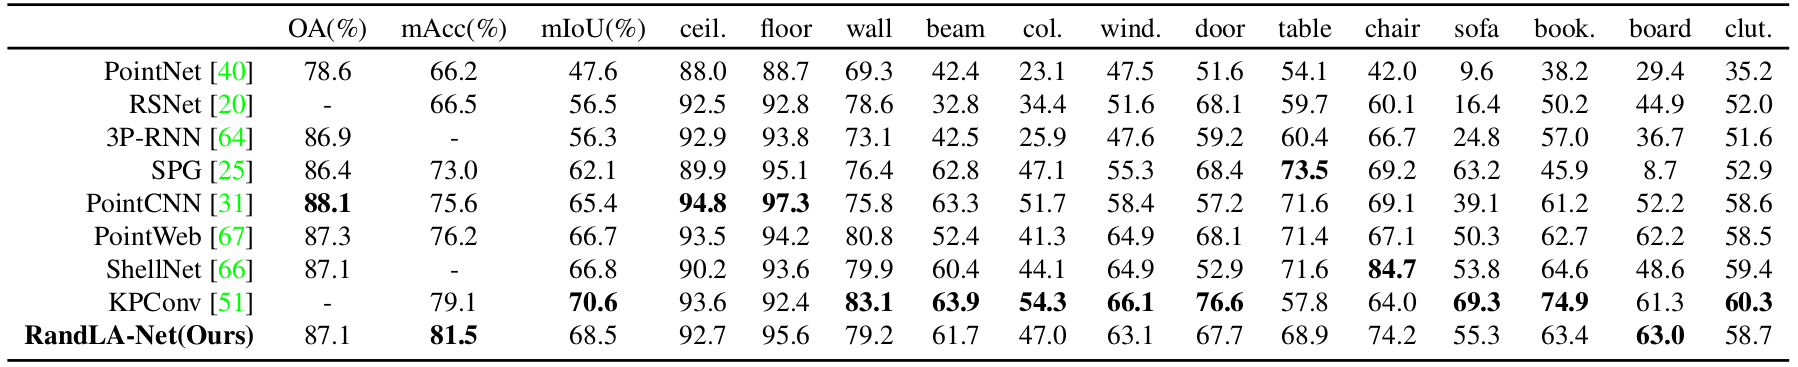
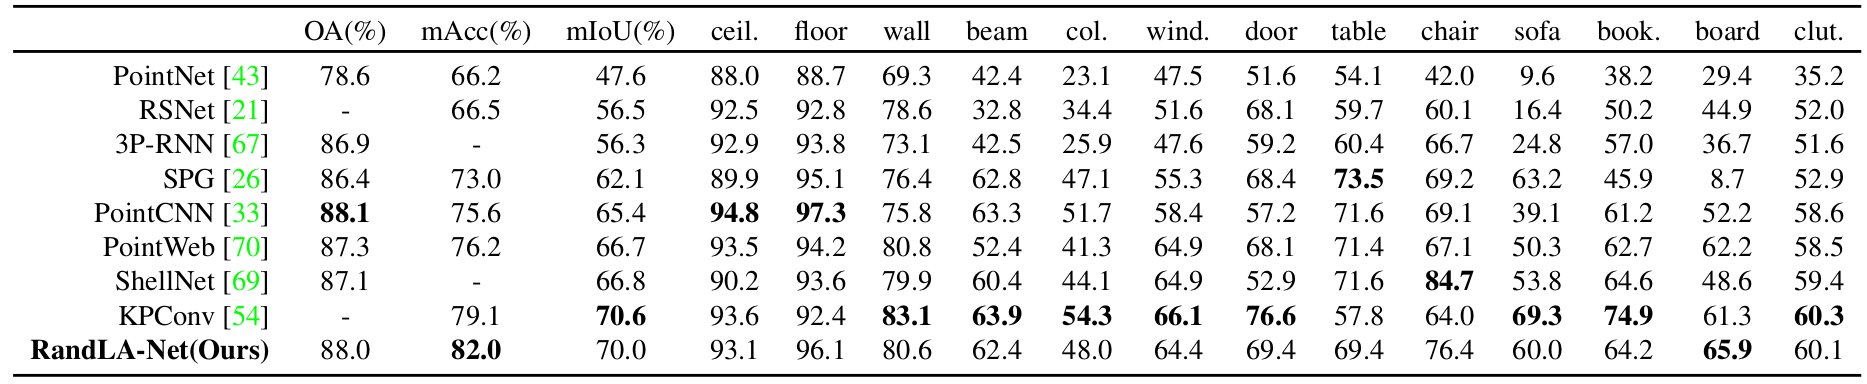
Update

Changed region(s): [[0.0, 0.0, 0.9967, 0.9891]]

diff --git a/main_SemanticKITTI.py b/main_SemanticKITTI.py
@@ -38,7 +38,7 @@ class SemanticKITTI:
         self.label_to_idx = {l: i for i, l in enumerate(self.label_values)}
         self.ignored_labels = np.sort([0])
 
-        self.val_split = 'semantickitti'
+        self.val_split = 'val'
 
         self.seq_list = np.sort(os.listdir(self.dataset_path))
         self.test_scan_number = str(test_id)
@@ -193,6 +193,7 @@ if __name__ == '__main__':
     parser.add_argument('--gpu', type=int, default=0, help='the number of GPUs to use [default: 0]')
     parser.add_argument('--mode', type=str, default='train', help='options: train, test, vis')
     parser.add_argument('--test_area', type=str, default='14', help='options: 11,12,13,14,15,16,17,18,19,20,21')
+    parser.add_argument('--mode_path', type=str, default='None', help='pretrained model path')
     FLAGS = parser.parse_args()
 
     os.environ["CUDA_DEVICE_ORDER"] = "PCI_BUS_ID"
@@ -210,13 +211,16 @@ if __name__ == '__main__':
     elif Mode == 'test':
         cfg.saving = False
         model = Network(dataset, cfg)
-        chosen_snapshot = -1
-        logs = np.sort([os.path.join('results', f) for f in os.listdir('results') if f.startswith('Log')])
-        chosen_folder = logs[-1]
-        snap_path = join(chosen_folder, 'snapshots')
-        snap_steps = [int(f[:-5].split('-')[-1]) for f in os.listdir(snap_path) if f[-5:] == '.meta']
-        chosen_step = np.sort(snap_steps)[-1]
-        chosen_snap = os.path.join(snap_path, 'snap-{:d}'.format(chosen_step))
+        if FLAGS.mode_path is not 'None':
+            chosen_snap = FLAGS.mode_path
+        else:
+            chosen_snapshot = -1
+            logs = np.sort([os.path.join('results', f) for f in os.listdir('results') if f.startswith('Log')])
+            chosen_folder = logs[-1]
+            snap_path = join(chosen_folder, 'snapshots')
+            snap_steps = [int(f[:-5].split('-')[-1]) for f in os.listdir(snap_path) if f[-5:] == '.meta']
+            chosen_step = np.sort(snap_steps)[-1]
+            chosen_snap = os.path.join(snap_path, 'snap-{:d}'.format(chosen_step))
         tester = ModelTester(model, dataset, restore_snap=chosen_snap)
         tester.test(model, dataset)
     else:

diff --git a/main_S3DIS.py b/main_S3DIS.py
@@ -221,7 +221,8 @@ if __name__ == '__main__':
     parser = argparse.ArgumentParser()
     parser.add_argument('--gpu', type=int, default=0, help='the number of GPUs to use [default: 0]')
     parser.add_argument('--test_area', type=int, default=5, help='Which area to use for test, option: 1-6 [default: 5]')
-    parser.add_argument('--mode', type=str, default='train', help='options: train, test, vis')
+    parser.add_argument('--mode', type=str, default='test', help='options: train, test, vis')
+    parser.add_argument('--mode_path', type=str, default='None', help='pretrained model path')
     FLAGS = parser.parse_args()
 
     os.environ["CUDA_DEVICE_ORDER"] = "PCI_BUS_ID"
@@ -239,13 +240,16 @@ if __name__ == '__main__':
     elif Mode == 'test':
         cfg.saving = False
         model = Network(dataset, cfg)
-        chosen_snapshot = -1
-        logs = np.sort([os.path.join('results', f) for f in os.listdir('results') if f.startswith('Log')])
-        chosen_folder = logs[-1]
-        snap_path = join(chosen_folder, 'snapshots')
-        snap_steps = [int(f[:-5].split('-')[-1]) for f in os.listdir(snap_path) if f[-5:] == '.meta']
-        chosen_step = np.sort(snap_steps)[-1]
-        chosen_snap = os.path.join(snap_path, 'snap-{:d}'.format(chosen_step))
+        if FLAGS.mode_path is not 'None':
+            chosen_snap = FLAGS.mode_path
+        else:
+            chosen_snapshot = -1
+            logs = np.sort([os.path.join('results', f) for f in os.listdir('results') if f.startswith('Log')])
+            chosen_folder = logs[-1]
+            snap_path = join(chosen_folder, 'snapshots')
+            snap_steps = [int(f[:-5].split('-')[-1]) for f in os.listdir(snap_path) if f[-5:] == '.meta']
+            chosen_step = np.sort(snap_steps)[-1]
+            chosen_snap = os.path.join(snap_path, 'snap-{:d}'.format(chosen_step))
         tester = ModelTester(model, dataset, restore_snap=chosen_snap)
         tester.test(model, dataset)
     else:

diff --git a/RandLANet.py b/RandLANet.py
@@ -46,7 +46,7 @@ class Network:
             self.accuracy = 0
             self.mIou_list = [0]
             self.class_weights = DP.get_class_weights(dataset.name)
-            self.Log_file = open('log_train_' + str(dataset.val_split) + '.txt', 'a')
+            self.Log_file = open('log_train_' + dataset.name + str(dataset.val_split) + '.txt', 'a')
 
         with tf.variable_scope('layers'):
             self.logits = self.inference(self.inputs, self.is_training)
@@ -269,7 +269,7 @@ class Network:
 
     def dilated_res_block(self, feature, xyz, neigh_idx, d_out, name, is_training):
         f_pc = helper_tf_util.conv2d(feature, d_out // 2, [1, 1], name + 'mlp1', [1, 1], 'VALID', True, is_training)
-        f_pc = self.building_block(xyz, f_pc, neigh_idx, d_out // 2, name + 'LFA', is_training)
+        f_pc = self.building_block(xyz, f_pc, neigh_idx, d_out, name + 'LFA', is_training)
         f_pc = helper_tf_util.conv2d(f_pc, d_out * 2, [1, 1], name + 'mlp2', [1, 1], 'VALID', True, is_training,
                                      activation_fn=None)
         shortcut = helper_tf_util.conv2d(feature, d_out * 2, [1, 1], name + 'shortcut', [1, 1], 'VALID',
@@ -294,7 +294,7 @@ class Network:
         neighbor_xyz = self.gather_neighbour(xyz, neigh_idx)
         xyz_tile = tf.tile(tf.expand_dims(xyz, axis=2), [1, 1, tf.shape(neigh_idx)[-1], 1])
         relative_xyz = xyz_tile - neighbor_xyz
-        relative_dis = tf.reduce_sum(tf.square(relative_xyz), axis=-1, keepdims=True)
+        relative_dis = tf.sqrt(tf.reduce_sum(tf.square(relative_xyz), axis=-1, keepdims=True))
         relative_feature = tf.concat([relative_dis, relative_xyz, xyz_tile, neighbor_xyz], axis=-1)
         return relative_feature
 

diff --git a/main_Semantic3D.py b/main_Semantic3D.py
@@ -337,6 +337,7 @@ if __name__ == '__main__':
     parser = argparse.ArgumentParser()
     parser.add_argument('--gpu', type=int, default=0, help='the number of GPUs to use [default: 0]')
     parser.add_argument('--mode', type=str, default='train', help='options: train, test, vis')
+    parser.add_argument('--mode_path', type=str, default='None', help='pretrained model path')
     FLAGS = parser.parse_args()
 
     GPU_ID = FLAGS.gpu
@@ -354,13 +355,16 @@ if __name__ == '__main__':
     elif Mode == 'test':
         cfg.saving = False
         model = Network(dataset, cfg)
-        chosen_snapshot = -1
-        logs = np.sort([os.path.join('results', f) for f in os.listdir('results') if f.startswith('Log')])
-        chosen_folder = logs[-1]
-        snap_path = join(chosen_folder, 'snapshots')
-        snap_steps = [int(f[:-5].split('-')[-1]) for f in os.listdir(snap_path) if f[-5:] == '.meta']
-        chosen_step = np.sort(snap_steps)[-1]
-        chosen_snap = os.path.join(snap_path, 'snap-{:d}'.format(chosen_step))
+        if FLAGS.mode_path is not 'None':
+            chosen_snap = FLAGS.mode_path
+        else:
+            chosen_snapshot = -1
+            logs = np.sort([os.path.join('results', f) for f in os.listdir('results') if f.startswith('Log')])
+            chosen_folder = logs[-1]
+            snap_path = join(chosen_folder, 'snapshots')
+            snap_steps = [int(f[:-5].split('-')[-1]) for f in os.listdir(snap_path) if f[-5:] == '.meta']
+            chosen_step = np.sort(snap_steps)[-1]
+            chosen_snap = os.path.join(snap_path, 'snap-{:d}'.format(chosen_step))
         tester = ModelTester(model, dataset, restore_snap=chosen_snap)
         tester.test(model, dataset)
 

diff --git a/tester_SemanticKITTI.py b/tester_SemanticKITTI.py
@@ -111,8 +111,7 @@ class ModelTester:
                         pred.tofile(store_path)
                     log_out(str(dataset.test_scan_number) + ' finished', self.Log_file)
                     self.sess.close()
-                    import sys
-                    sys.exit()
+                    return
                 self.sess.run(dataset.test_init_op)
                 epoch_ind += 1
                 continue

diff --git a/tester_S3DIS.py b/tester_S3DIS.py
@@ -168,8 +168,7 @@ class ModelTester:
                         log_out('-' * len(s) + '\n', self.Log_file)
                         print('finished \n')
                         self.sess.close()
-                        import sys
-                        sys.exit()
+                        return
 
                 self.sess.run(dataset.val_init_op)
                 epoch_id += 1

diff --git a/tester_Semantic3D.py b/tester_Semantic3D.py
@@ -133,8 +133,7 @@ class ModelTester:
                     t2 = time.time()
                     print('Done in {:.1f} s\n'.format(t2 - t1))
                     self.sess.close()
-                    import sys
-                    sys.exit()
+                    return
 
                 self.sess.run(dataset.test_init_op)
                 epoch_id += 1

diff --git a/README.md b/README.md
@@ -3,7 +3,7 @@
 
 # RandLA-Net: Efficient Semantic Segmentation of Large-Scale Point Clouds (CVPR 2020)
 
-This is the official implementation of **RandLA-Net** (CVPR2020), a simple and efficient neural architecture for semantic segmentation of large-scale 3D point clouds. For technical details, please refer to:
+This is the official implementation of **RandLA-Net** (CVPR2020, Oral presentation), a simple and efficient neural architecture for semantic segmentation of large-scale 3D point clouds. For technical details, please refer to:
  
 **RandLA-Net: Efficient Semantic Segmentation of Large-Scale Point Clouds** <br />
 [Qingyong Hu](https://www.cs.ox.ac.uk/people/qingyong.hu/), [Bo Yang*](https://yang7879.github.io/), [Linhai Xie](https://www.cs.ox.ac.uk/people/linhai.xie/), [Stefano Rosa](https://www.cs.ox.ac.uk/people/stefano.rosa/), [Yulan Guo](http://yulanguo.me/), [Zhihua Wang](https://www.cs.ox.ac.uk/people/zhihua.wang/), [Niki Trigoni](https://www.cs.ox.ac.uk/people/niki.trigoni/), [Andrew Markham](https://www.cs.ox.ac.uk/people/andrew.markham/). <br />
@@ -29,6 +29,9 @@ pip install -r helper_requirements.txt
 sh compile_op.sh
 ```
 
+**Update 03/21/2020, pre-trained models and results are available now.** 
+You can download the pre-trained models and results [here](https://drive.google.com/open?id=1iU8yviO3TP87-IexBXsu13g6NklwEkXB).
+Note that, please specify the model path in the main function (e.g., `main_S3DIS.py`) if you want to use the pre-trained model and have a quick try of our RandLA-Net.
 
 ### (2) S3DIS
 S3DIS dataset can be found 
@@ -125,6 +128,7 @@ Qualitative results of our RandLA-Net:
 
 ![zzz](./figs/SemanticKITTI-2.gif)    
 
+
 ### (5) Demo
 
 <p align="center"> <a href="https://youtu.be/Ar3eY_lwzMk"><img src="./figs/demo_cover.png" width="50%"></a> </p>
@@ -151,5 +155,7 @@ Licensed under the CC BY-NC-SA 4.0 license, see [LICENSE](./LICENSE).
 
 
 ### Updates
-* 02/03/2019: Code available!
+* 21/03/2020: Updating all experimental results
+* 21/03/2020: Adding pretrained models and results
+* 02/03/2020: Code available!
 * 15/11/2019: Initial release!
